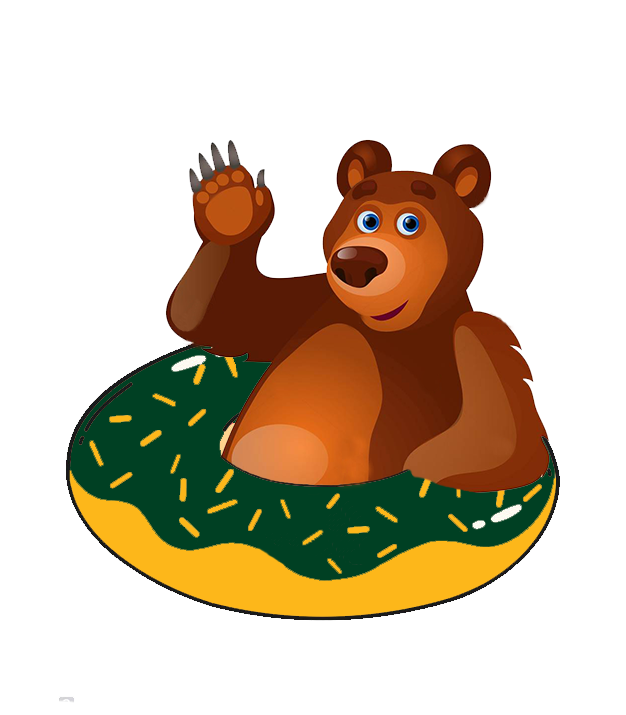
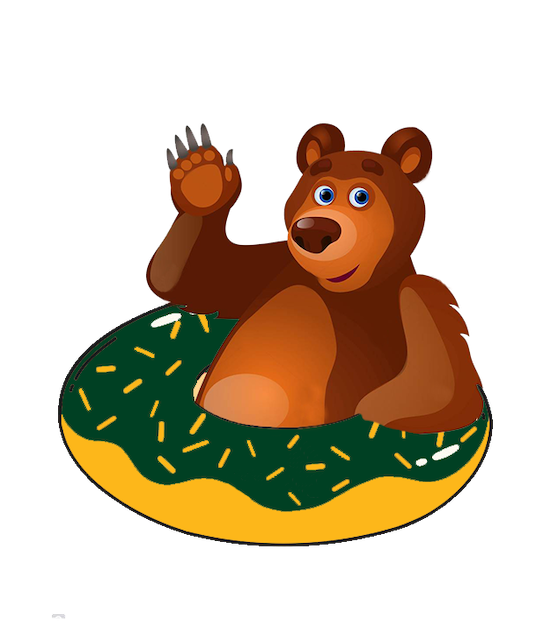
update background

diff --git a/index.html b/index.html
@@ -511,7 +511,7 @@
                         <span class="bl-icon bl-icon-close"></span>
                     </nav>
                 </div> -->
-    <img src="images/poolfloat.png" class="center">
+    <img src="images/poolfloat copy.png" class="center">
   </div>
 
 </div><!-- /container -->
